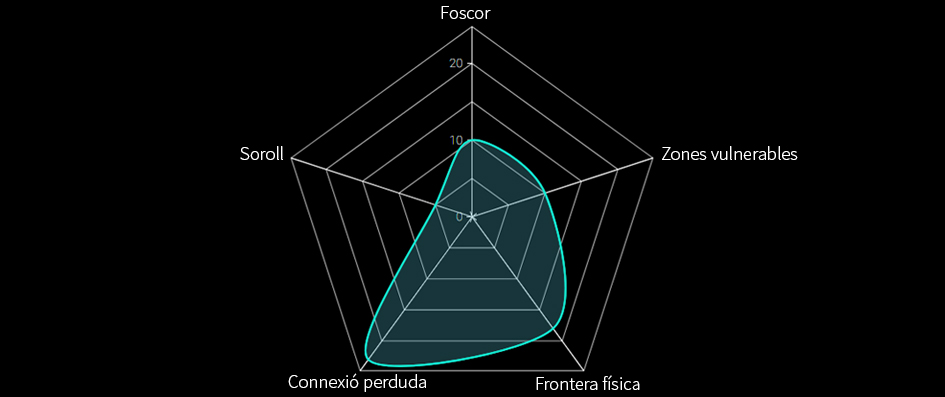
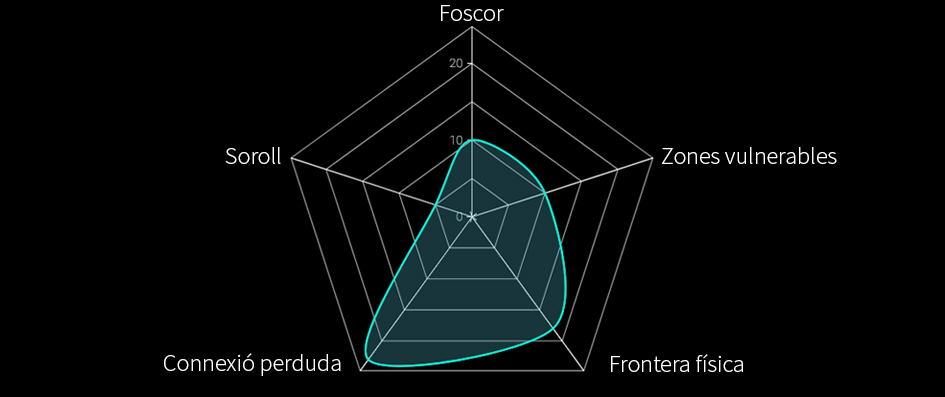
update fontsize graphic perceptions and styles

diff --git a/styles/main.css b/styles/main.css
@@ -241,7 +241,7 @@
     font-size: 22px;
     margin:10px 0px 30px 0px ;/* top right bottom left*/
     text-align: justify;
-    opacity: 0.75;
+    opacity: 0.85;
 }
 
 .controlls{
@@ -312,7 +312,7 @@
     z-index: 600;*/
     color:white;
     display:flex;
-    flex:0.1;
+    flex:0.15; /*0.1*/
     position: relative;
     border-top: 0.5px solid white;
 
@@ -338,9 +338,10 @@
 
 .lng-btn{
     padding-right: 2px;
-    font-size: 12px;
+    font-size: 15px; /*12px*/
     cursor:pointer;
     z-index:20;
+    margin: 0px 0px 0px 15px;
 
 }
 
@@ -362,7 +363,7 @@
 #map_cover{
     width:100%;
     height:100%;
-    opacity:0.5;
+    opacity:0.45;
     position:absolute;
     z-index:10; 
     top:0;

diff --git a/layers/potential-ceiling.layer.js b/layers/potential-ceiling.layer.js
@@ -45,8 +45,8 @@ var blurredDelay;
 function highlightFeature(event){
   var layer = event.target;
   var each=event.target.feature.properties.NPL_flotants
-  var npl = event.target.feature.properties.NPL_flotants+"<span class='label2 lng' lng_val='FLOORS'>" +lng("FLOORS")+"</span>";
-  label.style.fontSize="55px";
+  var npl = "<span class='label2 lng' lng_val='Buildable floors'>" +lng("Buildable floors")+"</span>"+event.target.feature.properties.NPL_flotants;
+  label.style.fontSize="35px";
   label.innerHTML = npl;//label es el class que he decidit posar al num que es va actualitzant
   if (each>0){
     layer.setStyle({

diff --git a/index.html b/index.html
@@ -83,9 +83,9 @@
     <div class="language-btns-wrapper">
       <div class=lang-box>
         <div class="lng-btn" id="ca">CATALÀ</div>
-        <div class="lng-btn">-----</div>
+        <!-- <div class="lng-btn">-----</div> -->
         <div class="lng-btn" id="es">ESPAÑOL</div>
-        <div class="lng-btn">-----</div>
+        <!-- <div class="lng-btn">-----</div> -->
         <div class="lng-btn" id="en">ENGLISH</div>
       </div>
     </div>

diff --git a/lng/en.js b/lng/en.js
@@ -12,6 +12,7 @@ var en = {
 	"+ than 40 years old": "+ than 40 years old",
 	//label potential_ceiling
 	"FLOORS":" FLOORS",
+	"Buildable floors":'Buildable floors: ',
 	//label identity
 	'create traditions':'create traditions.',
 	'creates community':'creates community.',

diff --git a/lng/es.js b/lng/es.js
@@ -12,6 +12,7 @@ var es = {
 	"+ than 40 years old": "+ de 40 años",
 	//label
 	"FLOORS":" PLANTAS",
+	"Buildable floors":'Plantas edificables: ',
 	//label identity
 	'create traditions':'crea tradiciones.',
 	'creates community':'crea comunidad.',

diff --git a/lng/ca.js b/lng/ca.js
@@ -12,6 +12,7 @@ var ca = {
 	"+ than 40 years old": "+ de 40 anys",
 	//label
 	"FLOORS":" PLANTES",
+	"Buildable floors":'Plantes edificables: ',
 	//label identity
 	'create traditions':'crea tradicions.',
 	'creates community':'crea comunitat.',
